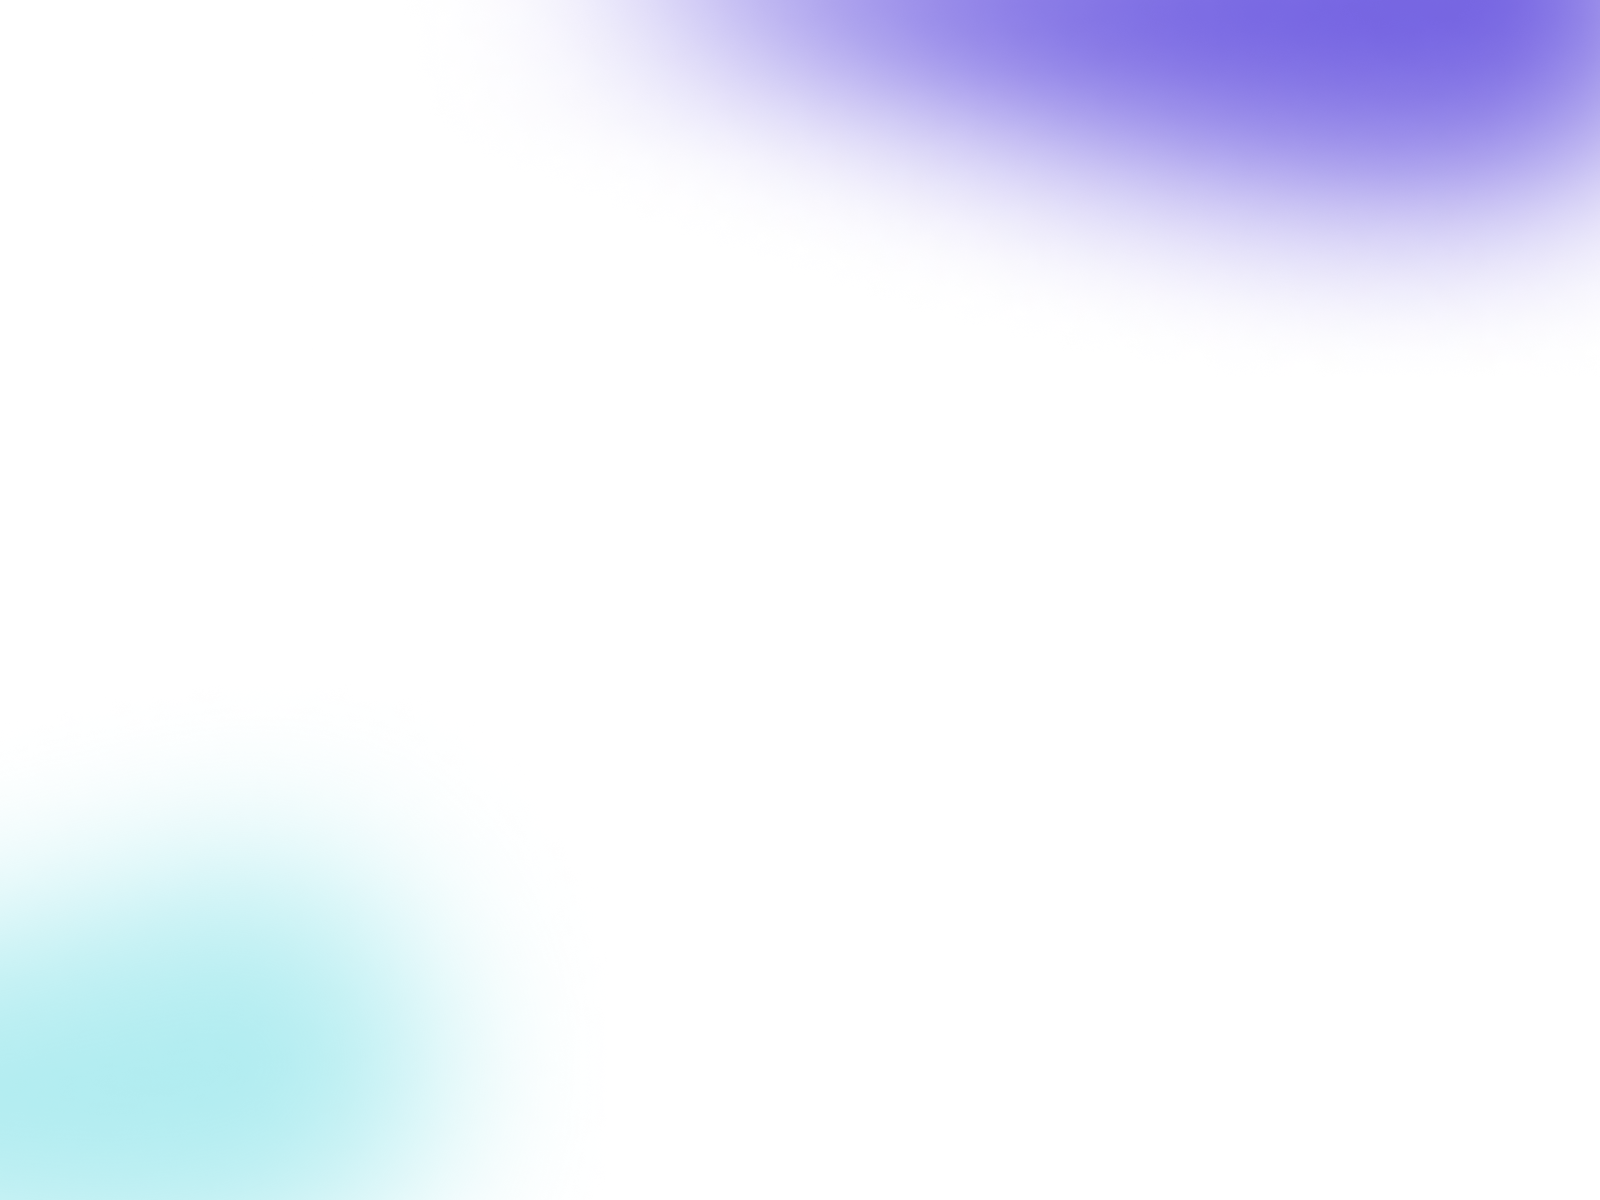
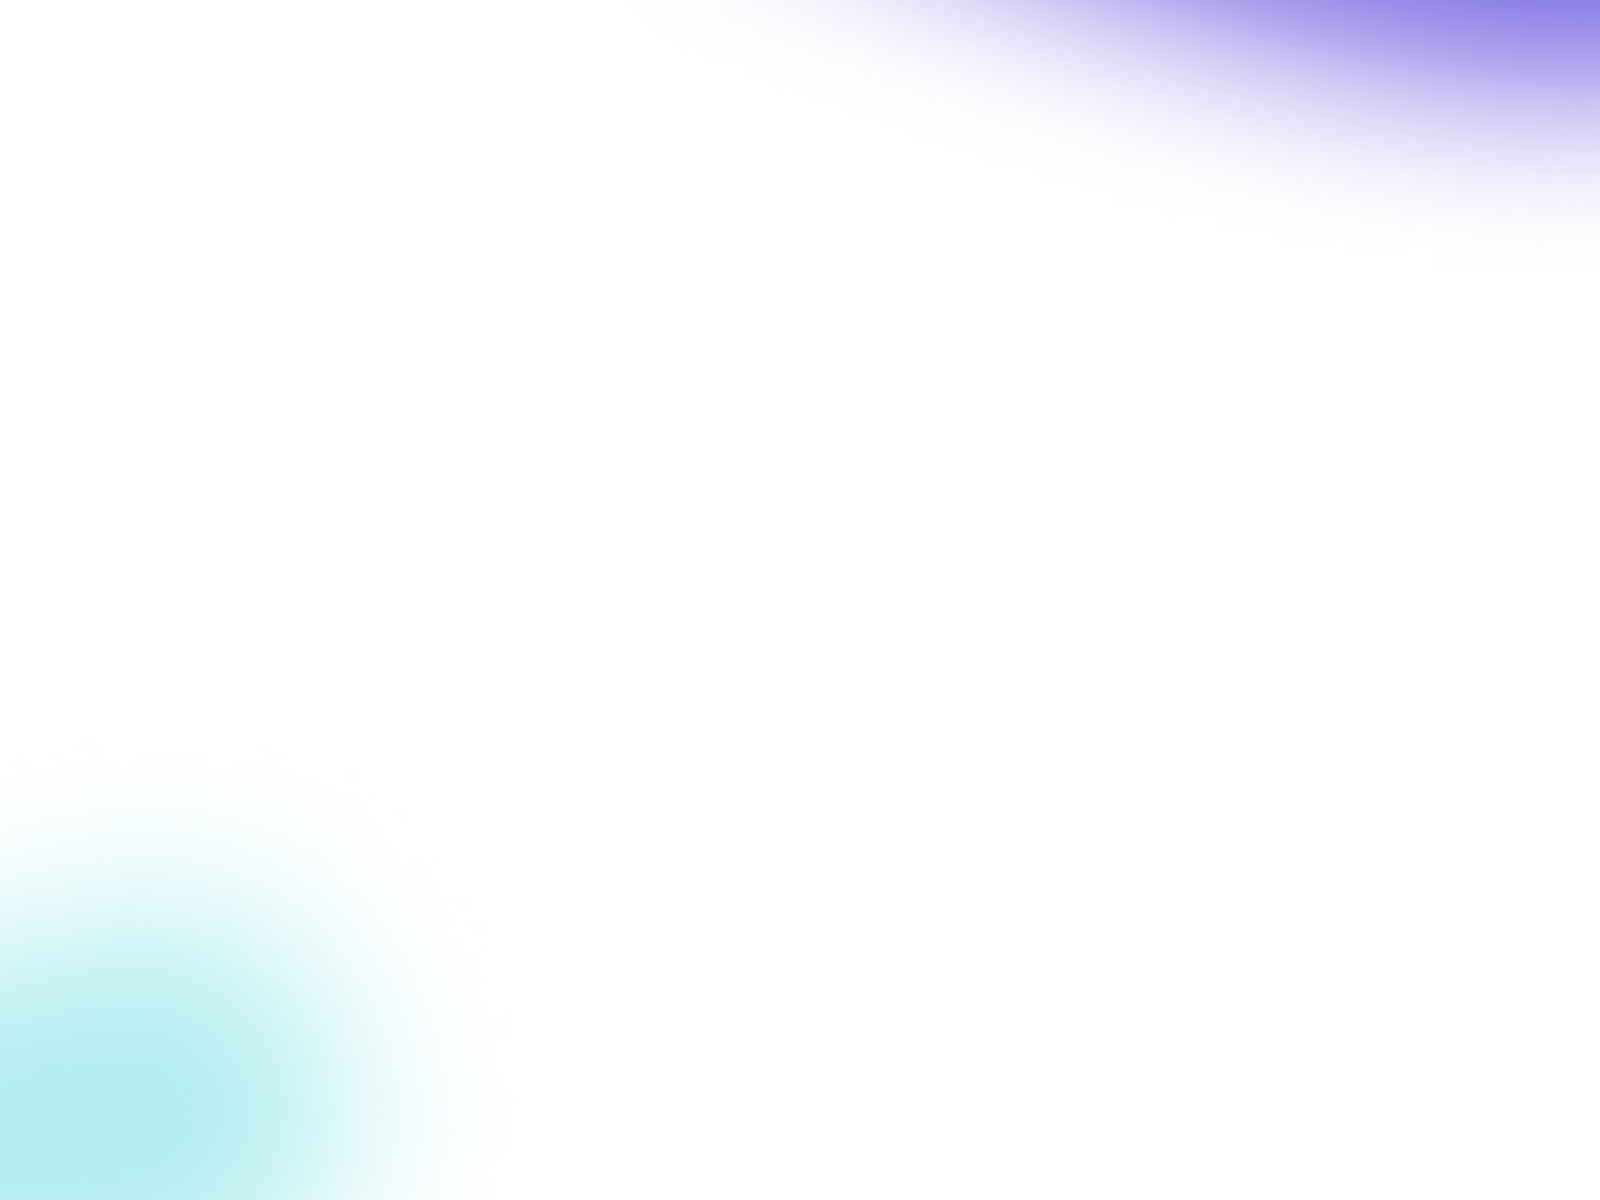
fix(responsive): fix responsive design

Changed region(s): [[0.375, 0.0, 1.0, 0.2467], [0.1562, 0.74, 0.2812, 0.9558]]

diff --git a/src/pages/About/Index.jsx b/src/pages/About/Index.jsx
@@ -1,18 +1,10 @@
 import TimelineItem from "../../components/TimelineItem";
-import contentBackground from "../../assets/main-content-background.png";
 import { experienceItems, technicalSkillItems } from "../../constants/Index";
 import TechnicalCard from "../../components/TechnicalCard";
 
 export default function About() {
   return (
-    <div
-      className="about  flex flex-col gap-y-8 py-7 overflow-hidden bg-gray-500 rounded-xl backdrop-filter p-7 backdrop-blur-lg bg-opacity-30 border border-zinc-500"
-      style={{
-        background: `url(${contentBackground})`,
-        backgroundSize: "cover",
-        backgroundRepeat: "no-repeat",
-      }}
-    >
+    <div className="about-wrapper flex flex-col gap-y-8 py-7 overflow-hidden sm:p-7 py-3 px-5">
       <div className="about">
         <h1 className="font-bold text-3xl title">About Me</h1>
 
@@ -20,8 +12,8 @@ export default function About() {
           Hello my name is Muhammad Rayhan Gibran, iam a Fullstack Web Developer
           who can handle Front End (the parts of a website that users see and
           interact with) and Back End (the behind-the-scenes data storage and
-          processing) of a website) with over two years of experience i can help
-          you fulfill your needs.
+          processing) of a website) with over two years of experience in web
+          development i can help you fulfill your needs.
         </div>
       </div>
       <div className="experience">
@@ -39,7 +31,7 @@ export default function About() {
       </div>
       <div className="technical-skill w-full ">
         <h1 className="font-bold text-3xl title">Technical Skill</h1>
-        <div className="technical-wrapper mt-3 grid lg:grid-cols-3 grid-cols-1 md:grid-cols-2 gap-x-4 gap-y-4">
+        <div className="technical-wrapper mt-3 grid lg:grid-cols-3 grid-cols-1 sm:grid-cols-2 gap-x-4 gap-y-4">
           {technicalSkillItems.map((item, index) => (
             <TechnicalCard
               image={item.image}

diff --git a/src/components/Aside.jsx b/src/components/Aside.jsx
@@ -8,7 +8,7 @@ export default function Aside() {
   const [toggleIdentityIsOpen, setToggleIdentityIsOpen] = useState(false);
   return (
     <div
-      className="max-h-max border border-gray-500 h-full p-5 rounded-xl flex flex-col lg:gap-y-9 gap-y-8 backdrop-filter sticky backdrop-blur-lg bg-opacity-30 transition-all ease-in-out duration-500 lg:w-3/6"
+      className="max-h-max border border-gray-500 h-full p-5 rounded-xl flex flex-col lg:gap-y-9 backdrop-filter sticky backdrop-blur-lg bg-opacity-30 transition-all ease-in-out duration-500 lg:max-w-72 w-full"
       style={{
         background: `url(${asideBackground})`,
         backgroundPosition: "center",
@@ -46,7 +46,7 @@ export default function Aside() {
       <hr className="border-t-1 border-gray-500 hidden lg:block" />
       <div
         className={`contact-wrapper transition-all lg:h-52 overflow-hidden ease-in-out duration-500 ${
-          toggleIdentityIsOpen ? "h-52" : "h-0"
+          toggleIdentityIsOpen ? "h-52 mt-7" : "h-0"
         } lg:block `}
       >
         <div className="main-contact transition-all ease-in-out duration-500 grid grid-cols-1 gap-4">
@@ -68,7 +68,7 @@ export default function Aside() {
         </div>
         <div className="socmed-wrapper transition-all ease-in-out duration-500 mt-8 flex lg:justify-center gap-3 items-center">
           {socmedItems.map((item, index) => (
-            <a href={item.href} key={index}>
+            <a href={item.href} className="text-xl" key={index}>
               {item.icon}
             </a>
           ))}

diff --git a/src/routes/Root.jsx b/src/routes/Root.jsx
@@ -2,6 +2,7 @@ import { Outlet } from "react-router-dom";
 import Aside from "../components/Aside";
 import Navbar from "../components/Navbar";
 import mainBackground from "../assets/main-background.png";
+import contentBackground from "../assets/main-content-background.png";
 
 export default function Root() {
   return (
@@ -9,14 +10,20 @@ export default function Root() {
       className="flex justify-center min-h-dvh pb-4"
       style={{
         background: `url(${mainBackground})`,
-        backgroundPosition: "center",
         backgroundSize: "cover",
+        backgroundPosition: "top right",
         backgroundRepeat: "no-repeat",
       }}
     >
-      <div className="flex max-w-[1200px] max-h-max lg:mt-20 mt-14 h-full w-full gap-y-3 lg:gap-x-7 flex-col lg:flex-row">
+      <div className="flex max-w-[1200px] max-h-max transition-all ease-in-out duration-500 lg:mt-20 mt-3 h-full w-full gap-y-4 p-3 lg:p-0 lg:gap-x-5 flex-col lg:flex-row">
         <Aside />
-        <div className="main-content relative overflow-auto h-full">
+        <div
+          className="main-content w-full bg-left-top bg-fixed relative  h-full backdrop-blur-lg bg-opacity-30 border border-gray-500 rounded-xl overflow-hidden backdrop-filter "
+          style={{
+            background: `url(${contentBackground})`,
+            backgroundRepeat: "no-repeat",
+          }}
+        >
           <Navbar />
           <Outlet />
         </div>

diff --git a/src/index.css b/src/index.css
@@ -4,13 +4,40 @@
 @tailwind components;
 @tailwind utilities;
 
+*, *::before, *::after {
+  margin: 0;
+  padding: 0;
+  box-sizing: border-box;
+}
+
+html {
+  overflow: -moz-scrollbars-vertical;
+  overflow-y: scroll;
+}
+
 
 :root {
   font-family: "Plus Jakarta Sans", sans-serif;
   color-scheme: dark;
 }
 
-.sidebar {
-
-  transition: 0.5s ease-in-out;
+.has-scrollbar::-webkit-scrollbar {
+  width: 5px; /* for vertical scrollbar */
+  height: 5px; /* for horizontal scrollbar */
 }
+
+body::-webkit-scrollbar { width: 20px; }
+
+body::-webkit-scrollbar-track { background:rgb(15 23 42); }
+
+body::-webkit-scrollbar-thumb {
+  border: 5px solid rgb(15 23 42);
+  background: hsla(0, 0%, 100%, 0.1);
+  border-radius: 20px;
+  box-shadow: inset 1px 1px 0 hsla(0, 0%, 100%, 0.11),
+              inset -1px -1px 0 hsla(0, 0%, 100%, 0.11);
+}
+
+body::-webkit-scrollbar-thumb:hover { background: hsla(0, 0%, 100%, 0.15); }
+
+body::-webkit-scrollbar-button { height: 60px; }

diff --git a/src/routes/Index.jsx b/src/routes/Index.jsx
@@ -2,6 +2,7 @@ import { createBrowserRouter } from "react-router-dom";
 import { ErrorPage } from "../pages/error";
 import Root from "./Root";
 import About from "../pages/About/Index";
+import Portofolio from "../pages/Portofolio/Index";
 
 const Router = createBrowserRouter([
   {
@@ -14,16 +15,8 @@ const Router = createBrowserRouter([
         element: <About />,
       },
       {
-        path: "/resume",
-        element: <div className="">Resume</div>,
-      },
-      {
         path: "/portofolio",
-        element: <div className="">Portofolio</div>,
-      },
-      {
-        path: "/blogs",
-        element: <div className="">Blogs</div>,
+        element: <Portofolio />,
       },
       {
         path: "/contact",

diff --git a/src/components/Navbar.jsx b/src/components/Navbar.jsx
@@ -3,7 +3,7 @@ import { navItems } from "../constants/Index";
 
 export default function Navbar() {
   return (
-    <nav className="absolute top-0 z-20 right-0 border border-gray-500  bg-opacity-35 py-4 px-5 rounded-bl-xl rounded-tr-xl">
+    <nav className="sm:absolute sm:top-0 sm:z-20 sm:right-0 left-0 sm:left-auto border border-gray-500 bg-opacity-35 py-4 px-5 sm:rounded-bl-xl ">
       <ul className="flex gap-x-6">
         {navItems.map((item, index) => (
           <li key={index}>

diff --git a/src/components/TechnicalCard.jsx b/src/components/TechnicalCard.jsx
@@ -2,7 +2,7 @@ import icon from "../assets/laravel.svg";
 
 export default function TechnicalCard({ image, title, subtitle }) {
   return (
-    <div className="technical-skill-item max-w-72 w-full flex gap-x-4 border-gray-500 border p-3 rounded-lg items-center">
+    <div className="technical-skill-item lg:max-w-72 w-full flex gap-x-4 border-gray-500 border p-3 rounded-lg items-center">
       <img
         src={image}
         alt="technical-skill-img"

diff --git a/src/pages/Portofolio/Index.jsx b/src/pages/Portofolio/Index.jsx
@@ -1,0 +1,12 @@
+import contentBackground from "../../assets/main-content-background.png";
+
+export default function Portofolio() {
+  return (
+    <div className="portofolio-wrapper flex flex-col gap-y-8 py-7 overflow-hidden p-7">
+      <div className="portofolio">
+        <h1 className="font-bold text-3xl title">Portofolio</h1>
+        <div className="description mt-3"></div>
+      </div>
+    </div>
+  );
+}

diff --git a/src/constants/Index.jsx b/src/constants/Index.jsx
@@ -16,7 +16,6 @@ import mongodb from "../assets/mongodb.svg";
 export const navItems = [
   { label: "About Me", href: "" },
   { label: "Portofolio", href: "portofolio" },
-  { label: "Contact", href: "contact" },
 ];
 
 export const contactItems = [
